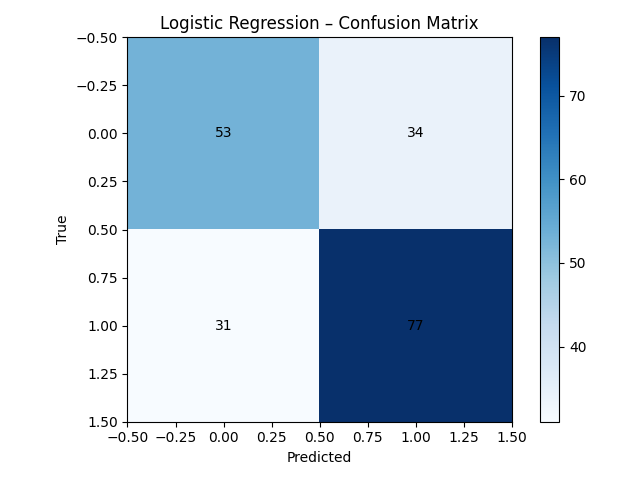
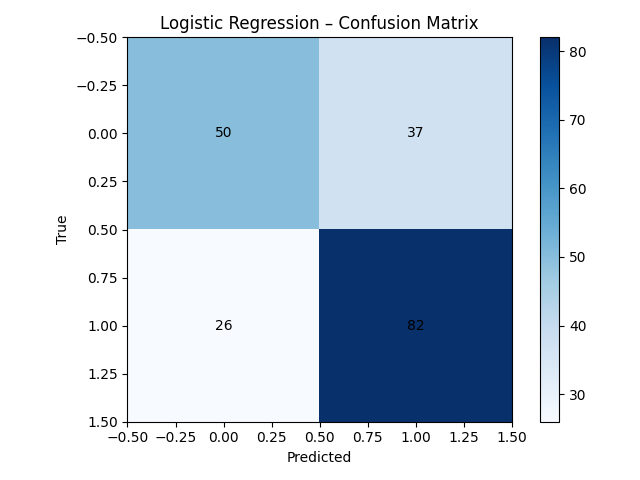
Week 3:DCT forensic features, LBP ablation, updated logs and README

diff --git a/src/forensics_dct.py b/src/forensics_dct.py
@@ -1,0 +1,71 @@
+import cv2
+import numpy as np
+
+
+def dct_block_features(img: np.ndarray, block_size: int = 8) -> np.ndarray:
+  
+    gray = cv2.cvtColor(img, cv2.COLOR_BGR2GRAY)
+    h, w = gray.shape
+
+    # Ensure divisible by block_size
+    h_pad = h - h % block_size
+    w_pad = w - w % block_size
+    gray = gray[:h_pad, :w_pad]
+
+    blocks_h = h_pad // block_size
+    blocks_w = w_pad // block_size
+
+    hf_means = []
+    hf_stds = []
+    mid_energy = []
+    high_energy = []
+
+    for by in range(blocks_h):
+        for bx in range(blocks_w):
+            block = gray[
+                by * block_size:(by + 1) * block_size,
+                bx * block_size:(bx + 1) * block_size
+            ].astype(np.float32)
+
+            # Apply 2D DCT
+            dct = cv2.dct(block)
+
+            # Define frequency masks
+            mid_mask = np.zeros_like(dct, dtype=np.uint8)
+            high_mask = np.zeros_like(dct, dtype=np.uint8)
+
+            # Mid frequency band (diagonal middle)
+            mid_mask[2:6, 2:6] = 1
+
+            # High frequency band (corners)
+            high_mask[6:, 6:] = 1
+
+            dct_mid = dct[mid_mask == 1]
+            dct_high = dct[high_mask == 1]
+
+            # Extract stats
+            hf_means.append(np.mean(dct_high))
+            hf_stds.append(np.std(dct_high))
+            mid_energy.append(np.sum(dct_mid ** 2))
+            high_energy.append(np.sum(dct_high ** 2))
+
+    # Aggregate features
+    features = np.array([
+        np.mean(hf_means), np.std(hf_means),
+        np.mean(hf_stds), np.std(hf_stds),
+        np.mean(mid_energy), np.std(mid_energy),
+        np.mean(high_energy), np.std(high_energy)
+    ], dtype=np.float32)
+
+    return features
+
+
+if __name__ == "__main__":
+    import os
+
+    test_path = os.listdir("data/raw/train/real")[0]
+    img = cv2.imread(os.path.join("data/raw/train/real", test_path))
+
+    feats = dct_block_features(img)
+    print("DCT feature vector length:", len(feats))
+    print("DCT features:", feats)

diff --git a/src/forensics_lbp.py b/src/forensics_lbp.py
@@ -1,0 +1,58 @@
+import cv2
+import numpy as np
+
+
+def lbp_laplacian_features(img: np.ndarray) -> np.ndarray:
+
+    gray = cv2.cvtColor(img, cv2.COLOR_BGR2GRAY)
+
+    # Laplacian to emphasize edges/texture
+    lap = cv2.Laplacian(gray, cv2.CV_32F, ksize=3)
+    lap = cv2.normalize(lap, None, alpha=0, beta=255, norm_type=cv2.NORM_MINMAX)
+    lap = lap.astype(np.uint8)
+
+    # Downsize to limit computation
+    lap = cv2.resize(lap, (128, 128), interpolation=cv2.INTER_AREA)
+
+    h, w = lap.shape
+    lbp = np.zeros_like(lap, dtype=np.uint8)
+
+    # 8-neighbor LBP with stride 2 
+    for y in range(1, h - 1, 2):
+        for x in range(1, w - 1, 2):
+            center = lap[y, x]
+            code = 0
+            code |= (lap[y - 1, x - 1] > center) << 7
+            code |= (lap[y - 1, x    ] > center) << 6
+            code |= (lap[y - 1, x + 1] > center) << 5
+            code |= (lap[y,     x + 1] > center) << 4
+            code |= (lap[y + 1, x + 1] > center) << 3
+            code |= (lap[y + 1, x    ] > center) << 2
+            code |= (lap[y + 1, x - 1] > center) << 1
+            code |= (lap[y,     x - 1] > center) << 0
+            lbp[y, x] = code
+
+    # Histogram over LBP codes 
+    mask = np.zeros_like(lbp, dtype=bool)
+    mask[1:h - 1:2, 1:w - 1:2] = True
+
+    hist, _ = np.histogram(lbp[mask].ravel(), bins=256, range=(0, 256))
+    hist = hist.astype(np.float32)
+    hist = hist / (hist.sum() + 1e-8)
+    return hist
+
+
+if __name__ == "__main__":
+    import os
+
+    real_dir = os.path.join("data", "raw", "train", "real")
+    first_image = None
+    for fname in os.listdir(real_dir):
+        if fname.lower().endswith((".jpg", ".jpeg", ".png")):
+            first_image = os.path.join(real_dir, fname)
+            break
+
+    img = cv2.imread(first_image)
+    feats = lbp_laplacian_features(img)
+    print("LBP feature length:", len(feats))
+    print("Sum of histogram:", feats.sum())

diff --git a/src/features.py b/src/features.py
@@ -1,7 +1,12 @@
 import cv2
 import numpy as np
 
+from forensics_dct import dct_block_features
+from forensics_lbp import lbp_laplacian_features
+
+
 def load_bgr(path: str) -> np.ndarray:
+ 
     img = cv2.imread(path, cv2.IMREAD_COLOR)
     if img is None:
         raise ValueError(f"Could not read image: {path}")
@@ -9,6 +14,7 @@ def load_bgr(path: str) -> np.ndarray:
 
 
 def rgb_histogram(img: np.ndarray, bins: int = 32) -> np.ndarray:
+
     feats = []
     for ch in range(3):
         hist = cv2.calcHist([img], [ch], None, [bins], [0, 256])
@@ -18,6 +24,7 @@ def rgb_histogram(img: np.ndarray, bins: int = 32) -> np.ndarray:
 
 
 def edge_stats(img: np.ndarray) -> np.ndarray:
+  
     gray = cv2.cvtColor(img, cv2.COLOR_BGR2GRAY)
     grad_x = cv2.Sobel(gray, cv2.CV_32F, 1, 0, ksize=3)
     grad_y = cv2.Sobel(gray, cv2.CV_32F, 0, 1, ksize=3)
@@ -26,6 +33,7 @@ def edge_stats(img: np.ndarray) -> np.ndarray:
 
 
 def fft_highfreq_ratio(img: np.ndarray, low_freq_ratio: float = 0.1) -> np.ndarray:
+  
     gray = cv2.cvtColor(img, cv2.COLOR_BGR2GRAY)
     gray = gray.astype(np.float32) / 255.0
 
@@ -47,11 +55,14 @@ def fft_highfreq_ratio(img: np.ndarray, low_freq_ratio: float = 0.1) -> np.ndarr
 
 
 def extract_features(path: str) -> np.ndarray:
+    
     img = load_bgr(path)
-    h = rgb_histogram(img)
-    e = edge_stats(img)
-    f = fft_highfreq_ratio(img)
-    return np.concatenate([h, e, f]).astype(np.float32)
+
+    h = rgb_histogram(img)          # 96 dims
+    e = edge_stats(img)             # 2 dims
+    f = fft_highfreq_ratio(img)     # 1 dim
+    dct_feats = dct_block_features(img)  # 8 dims
+    return np.concatenate([h, e, f, dct_feats]).astype(np.float32)
 
 
 if __name__ == "__main__":

diff --git a/src/classical_baseline.py b/src/classical_baseline.py
@@ -125,7 +125,7 @@ def run_baselines():
     }
 
     df = pd.DataFrame(data)
-    out_path = os.path.join("results", "week2_baselines.csv")
+    out_path = os.path.join("results", "week3_dct_baselines.csv")
     df.to_csv(out_path, index=False)
     print(f"\nSaved baseline metrics to {out_path}")
 

diff --git a/README.md b/README.md
@@ -41,3 +41,46 @@ logs/       - weekly development logs
 
 Confusion matrices are saved in `results/cm_lr.png` and `results/cm_svm.png`.  
 These baselines show that simple global statistics are not sufficient for reliable AI-art detection, motivating CNN-based detectors and more forensic-style features in later weeks.
+
+
+
+## Week 3 – Forensic Feature Engineering & Ablation
+
+In Week 3, classical baselines were extended with digital-forensics
+inspired features.
+
+### 1. 8×8 DCT Block Statistics (Successful)
+
+For each grayscale image, 8×8 DCT blocks were computed and the following
+statistics were extracted:
+
+- Mean and std of high-frequency coefficients
+- Energy of mid-frequency and high-frequency bands
+
+This produced an 8-dimensional forensic descriptor, increasing the
+feature dimension from 99 → 107.
+
+**Test-set performance (195 images):**
+
+| Model               | Week 2 (Classical) | Week 3 (Classical + DCT) |
+|---------------------|--------------------|---------------------------|
+| Logistic Regression | 0.667              | ~0.677                    |
+| Linear SVM          | 0.662              | ~0.708                |
+
+Metrics are saved in `results/week3_dct_baselines.csv`.
+
+### 2. LBP-on-Laplacian Texture Histogram (Negative Result)
+
+A 256-D LBP histogram over a Laplacian texture map was also tested,
+increasing the total feature dimension to 363. However, this did not
+improve performance:
+
+| Model               | DCT-only | DCT + LBP |
+|---------------------|----------|-----------|
+| Logistic Regression | ~0.677   | ~0.667    |
+| Linear SVM          | ~0.708   | ~0.672    |
+
+Metrics are saved in `results/week3_forensic_full_baselines.csv`.  
+This feature is kept as an ablation result, and the default classical
+pipeline uses only the DCT-augmented features, which showed the best
+performance.
